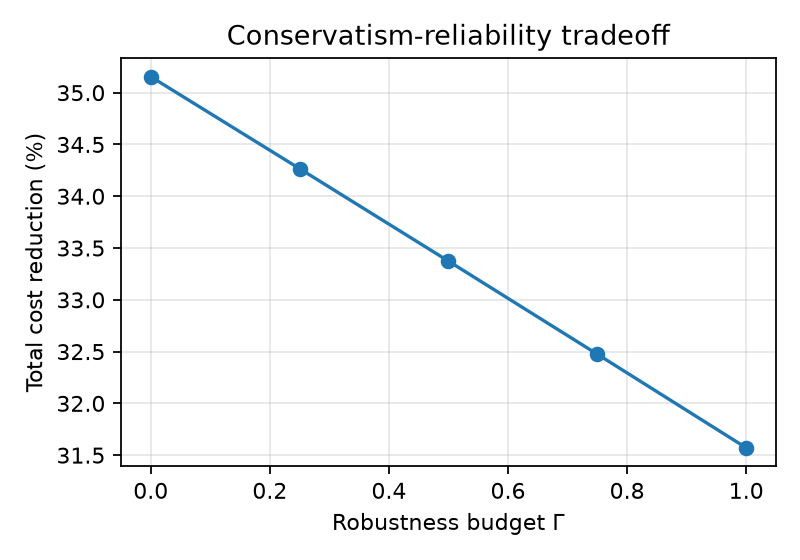
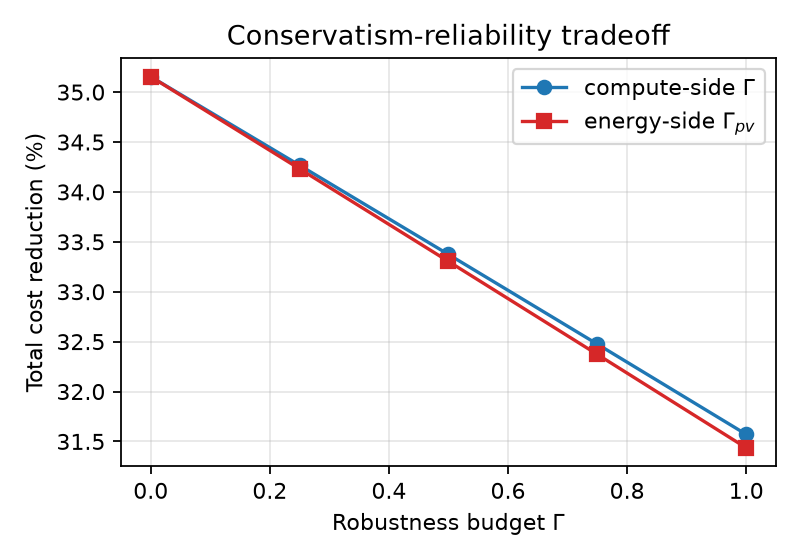
记录残差标定依据并接入能源侧 Γ-budget RO
写入 2024 残差标定推理；PV 相对误差 ε≈24.3%（2024 NMAE），Γ_pv 扫参；与算力侧 Γ 构成双侧不确定。

diff --git a/alibaba2018_dro/scheduler.py b/alibaba2018_dro/scheduler.py
@@ -51,6 +51,8 @@ def solve_batch_shift(
     soc_max: float = 0.90,
     soc_initial: float = 0.50,
     pv_capacity_mw: float | None = None,
+    pv_robustness_budget: float = 0.0,
+    pv_relative_error: float = 0.243,
     robustness_budget: float = 0.0,
     energy_uncertainty_fraction: float = 0.079,
 ) -> BatchShiftResult:
@@ -108,7 +110,10 @@ def solve_batch_shift(
             p_grid[t] = p_grid[t] + p_ch[t] - p_dis[t]
 
     if pv_capacity_mw is not None:
-        pv = _pv_profile(inputs, pv_capacity_mw)
+        effective_capacity = pv_capacity_mw * (
+            1.0 - pv_robustness_budget * pv_relative_error
+        )
+        pv = _pv_profile(inputs, effective_capacity)
         for item in inputs:
             p_grid[item.hour] = p_grid[item.hour] - pv[item.hour]
 
@@ -332,6 +337,42 @@ def sweep_robustness_budget(
             pv_capacity_mw=pv_fraction * p_must,
             robustness_budget=budget,
             energy_uncertainty_fraction=energy_uncertainty_fraction,
+        )
+        rows.append((budget, result.feasible, result.cost_reduction))
+    return rows
+
+
+def sweep_pv_robustness(
+    inputs: list[HourlyInput],
+    *,
+    g_max_fraction: float,
+    r_max_fraction: float,
+    budgets: list[float],
+    pv_relative_error: float = 0.243,
+    bess_power_fraction: float = 0.5,
+    bess_energy_hours: float = 2.0,
+    pv_fraction: float = 1.0,
+) -> list[tuple[float, bool, float]]:
+    """Sweep the energy-side PV robustness budget Gamma_pv."""
+
+    p_peak = _peak_load(inputs)
+    p_must = inputs[0].online_mw + inputs[0].base_mw
+    g_max_mw = g_max_fraction * p_peak
+    r_max_mw = r_max_fraction * p_peak
+    p_grid_initial = p_must + inputs[0].batch_baseline_mwh
+
+    rows: list[tuple[float, bool, float]] = []
+    for budget in budgets:
+        result = solve_batch_shift(
+            inputs,
+            g_max_mw=g_max_mw,
+            r_max_mw=r_max_mw,
+            p_grid_initial_mw=p_grid_initial,
+            bess_power_mw=bess_power_fraction * p_peak,
+            bess_energy_mwh=bess_energy_hours * bess_power_fraction * p_peak,
+            pv_capacity_mw=pv_fraction * p_must,
+            pv_robustness_budget=budget,
+            pv_relative_error=pv_relative_error,
         )
         rows.append((budget, result.feasible, result.cost_reduction))
     return rows

diff --git a/scripts/plot_results.py b/scripts/plot_results.py
@@ -22,6 +22,7 @@ from alibaba2018_dro.scheduler import (
     sweep_pv_capacity,
     sweep_ramp_limit,
     sweep_robustness_budget,
+    sweep_pv_robustness,
 )
 
 
@@ -51,12 +52,21 @@ def main() -> None:
         r_max_fraction=0.1,
         budgets=[0.0, 0.25, 0.5, 0.75, 1.0],
     )
+    pv_gamma_rows = sweep_pv_robustness(
+        inputs,
+        g_max_fraction=0.8,
+        r_max_fraction=0.1,
+        budgets=[0.0, 0.25, 0.5, 0.75, 1.0],
+    )
     plt.figure(figsize=(5, 3.5))
     g, rd = zip(*_feasible(gamma_rows))
-    plt.plot(g, rd, "o-", color="#1f77b4")
+    pg, prd = zip(*_feasible(pv_gamma_rows))
+    plt.plot(g, rd, "o-", label="compute-side $\\Gamma$", color="#1f77b4")
+    plt.plot(pg, prd, "s-", label="energy-side $\\Gamma_{pv}$", color="#d62728")
     plt.xlabel("Robustness budget $\\Gamma$")
     plt.ylabel("Total cost reduction (%)")
     plt.title("Conservatism-reliability tradeoff")
+    plt.legend()
     plt.grid(alpha=0.3)
     plt.tight_layout()
     plt.savefig(FIGURES / "fig_gamma_ro.png", dpi=160)
